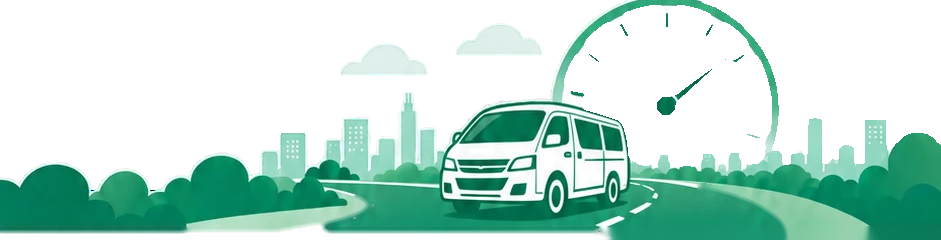
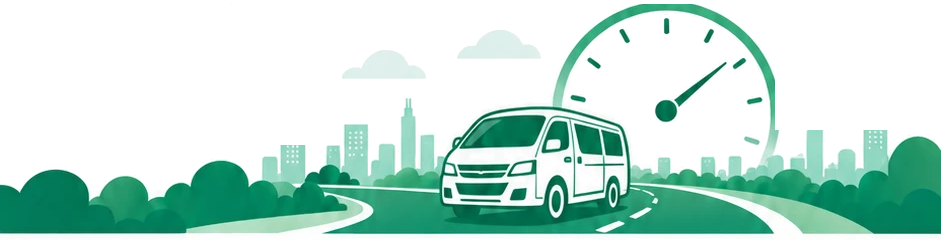
fix: 記録一覧・記録詳細のバナー画像を元モックアップから作り直し
これまでのパッチの重ね張りをやめ、ユーザーから再度提供してもらった元モックアップ画像から
透過処理を一からやり直した。今回学んだ教訓を踏まえてシンプルな方式のみを採用:
- マーケティング文言(左右の煽り文)を消去（リングには重ならない範囲を確認済み）
- 白色系ピクセルは基本すべて透明にする。ただし車体のシルエット(輪郭線から抽出した
  実形状。矩形保護ではない)の内側だけは不透明のまま残す
- 地面(道路・茂み)より下の行は問答無用でalpha=255固定にする

複雑な色復元(decontaminate)や膨張収縮による分離処理を使わず、単純な閾値+シルエット抽出のみで
組み立てたことで、これまで繰り返し発生していた色抜け・ゴースト・穴あきが解消された。

diff --git a/service-worker.js b/service-worker.js
@@ -1,5 +1,5 @@
 // キャッシュ対象を変更したら CACHE_VERSION を上げること（APP_VERSIONと合わせなくてOK、SW側だけの独立カウンタ）
-const CACHE_VERSION = 8;
+const CACHE_VERSION = 9;
 const CACHE_NAME = `koutsuu-kiroku-v${CACHE_VERSION}`;
 
 const APP_SHELL = [
@@ -8,7 +8,7 @@ const APP_SHELL = [
   'app.js?v=24',
   'style.css?v=14',
   'hero-illustration.png?v=20',
-  'detail-hero.png?v=24',
+  'detail-hero.png?v=25',
   'vehicle-illustration.png',
   'logo-lockup.png?v=20',
   'logo-lockup-dark.png?v=20',

diff --git a/index.html b/index.html
@@ -95,7 +95,7 @@
 
   <div class="listScrollArea">
     <div class="listHero">
-      <img src="detail-hero.png?v=24" class="listHeroImg" alt="">
+      <img src="detail-hero.png?v=25" class="listHeroImg" alt="">
     </div>
 
     <div class="periodNavBar">
@@ -261,7 +261,7 @@
 
   <div class="listScrollArea">
   <div class="listHero">
-    <img src="detail-hero.png?v=24" class="listHeroImg" alt="">
+    <img src="detail-hero.png?v=25" class="listHeroImg" alt="">
   </div>
 
   <div class="detailBody">
